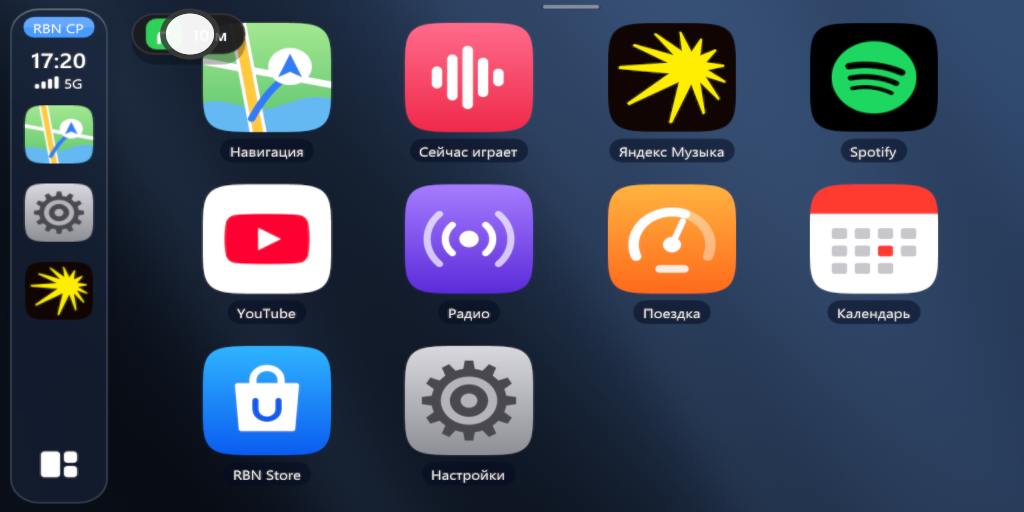
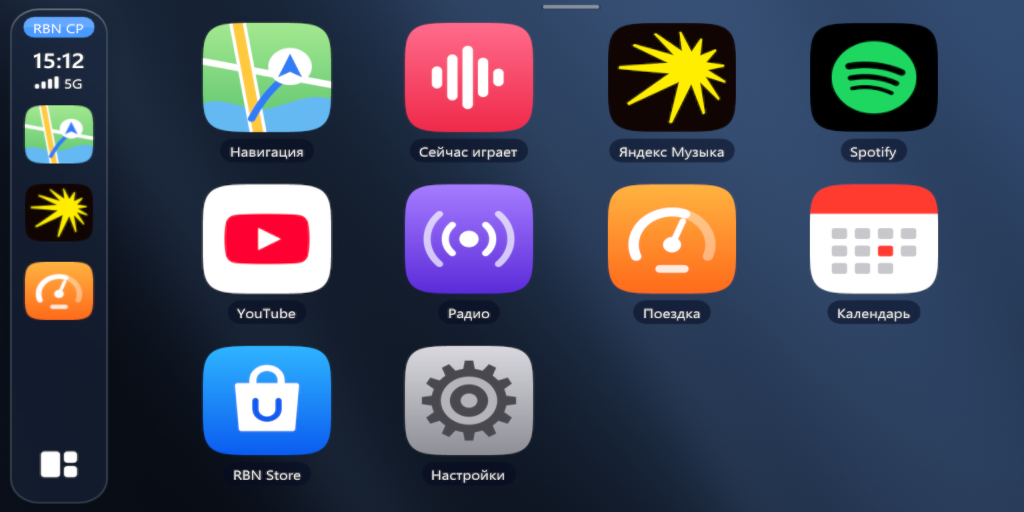
README: cleaner cab screenshots, the new setup screens

Changed region(s): [[0.0, 0.3438, 0.0938, 0.625], [0.125, 0.0, 0.25, 0.125], [0.0312, 0.0938, 0.0938, 0.1562]]

diff --git a/README.md b/README.md
@@ -9,7 +9,7 @@
 
 <p align="center">
   <img src="docs/cab-apps.png" width="49%" alt="Главный экран RBN CP в кабине">
-  <img src="docs/cab-map-styles.png" width="49%" alt="Оформления карты">
+  <img src="docs/cab-trip.png" width="49%" alt="Поездка: данные грузовика">
 </p>
 
 ## ⬇ Установка
@@ -27,7 +27,7 @@
 
 <p align="center">
   <img src="docs/setup-game.png" width="49%" alt="Установщик нашёл игру">
-  <img src="docs/setup-done.png" width="49%" alt="Плагин установлен">
+  <img src="docs/setup-done.png" width="49%" alt="Установка завершена">
 </p>
 
 > **Windows может предупредить «Система Windows защитила ваш компьютер».** Установщик пока не подписан сертификатом, поэтому SmartScreen его не знает. Нажми **Подробнее → Выполнить в любом случае**.
